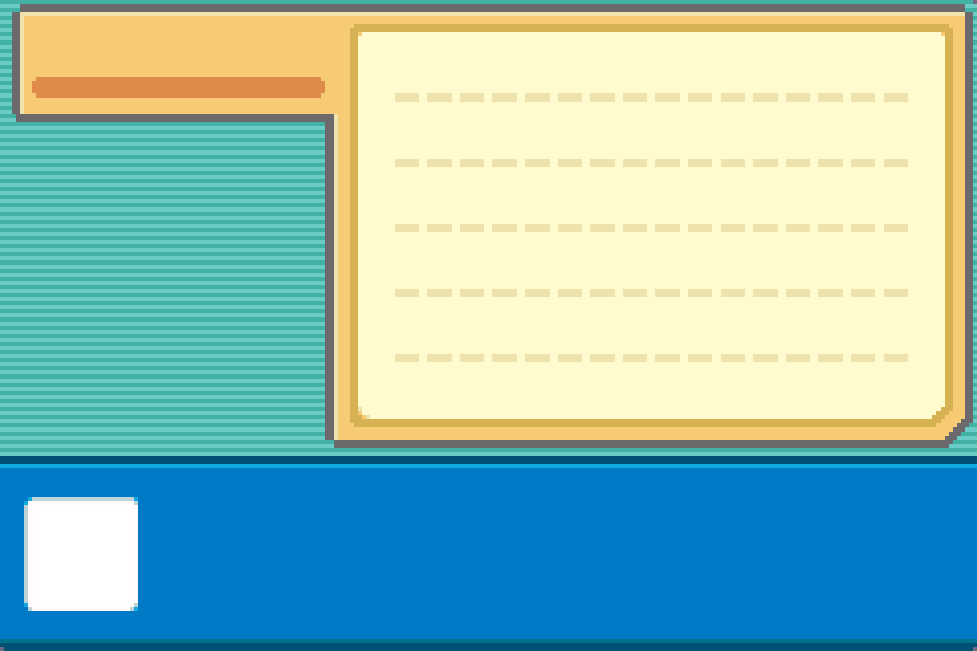
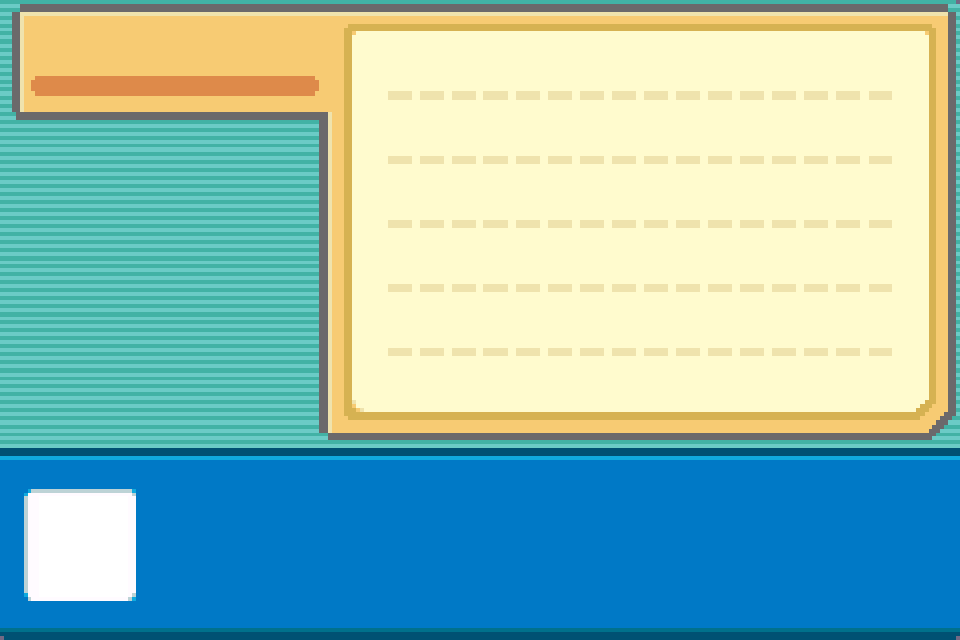
test
하용찡 테슷흐

Changed region(s): [[0.0312, 0.75, 0.0625, 0.7812]]

diff --git a/team15duckD2D/hayoungTestScene.h b/team15duckD2D/hayoungTestScene.h
@@ -1,7 +1,24 @@
 #pragma once
 #include "gameNode.h"
+
+enum MENU_DIRECTION
+{
+	MD_LT, MD_RT, MD_LB, MD_RB, MD_L, MD_R, MD_T, MD_B, MD_NONE
+};
+
+
+
+struct tagMenuFrameInfo
+{
+	D2D1_RECT_F rc;
+	MENU_DIRECTION direction;
+};
+
 class hayoungTestScene : public gameNode
 {
+private:
+	D2D1_RECT_F _rc;
+	D2D1_RECT_F _test[150];
 
 public:
 	hayoungTestScene();
@@ -11,5 +28,8 @@ public:
 	void release();
 	void update();
 	void render();
+
+	void frameImageinit();
+
 };
 

diff --git a/team15duckD2D/playGround.h b/team15duckD2D/playGround.h
@@ -1,6 +1,7 @@
 #pragma once
 #include "gameNode.h"
 #include "chiyeongTestScene.h"
+#include "hayoungTestScene.h"
 
 class playGround : public gameNode
 {
